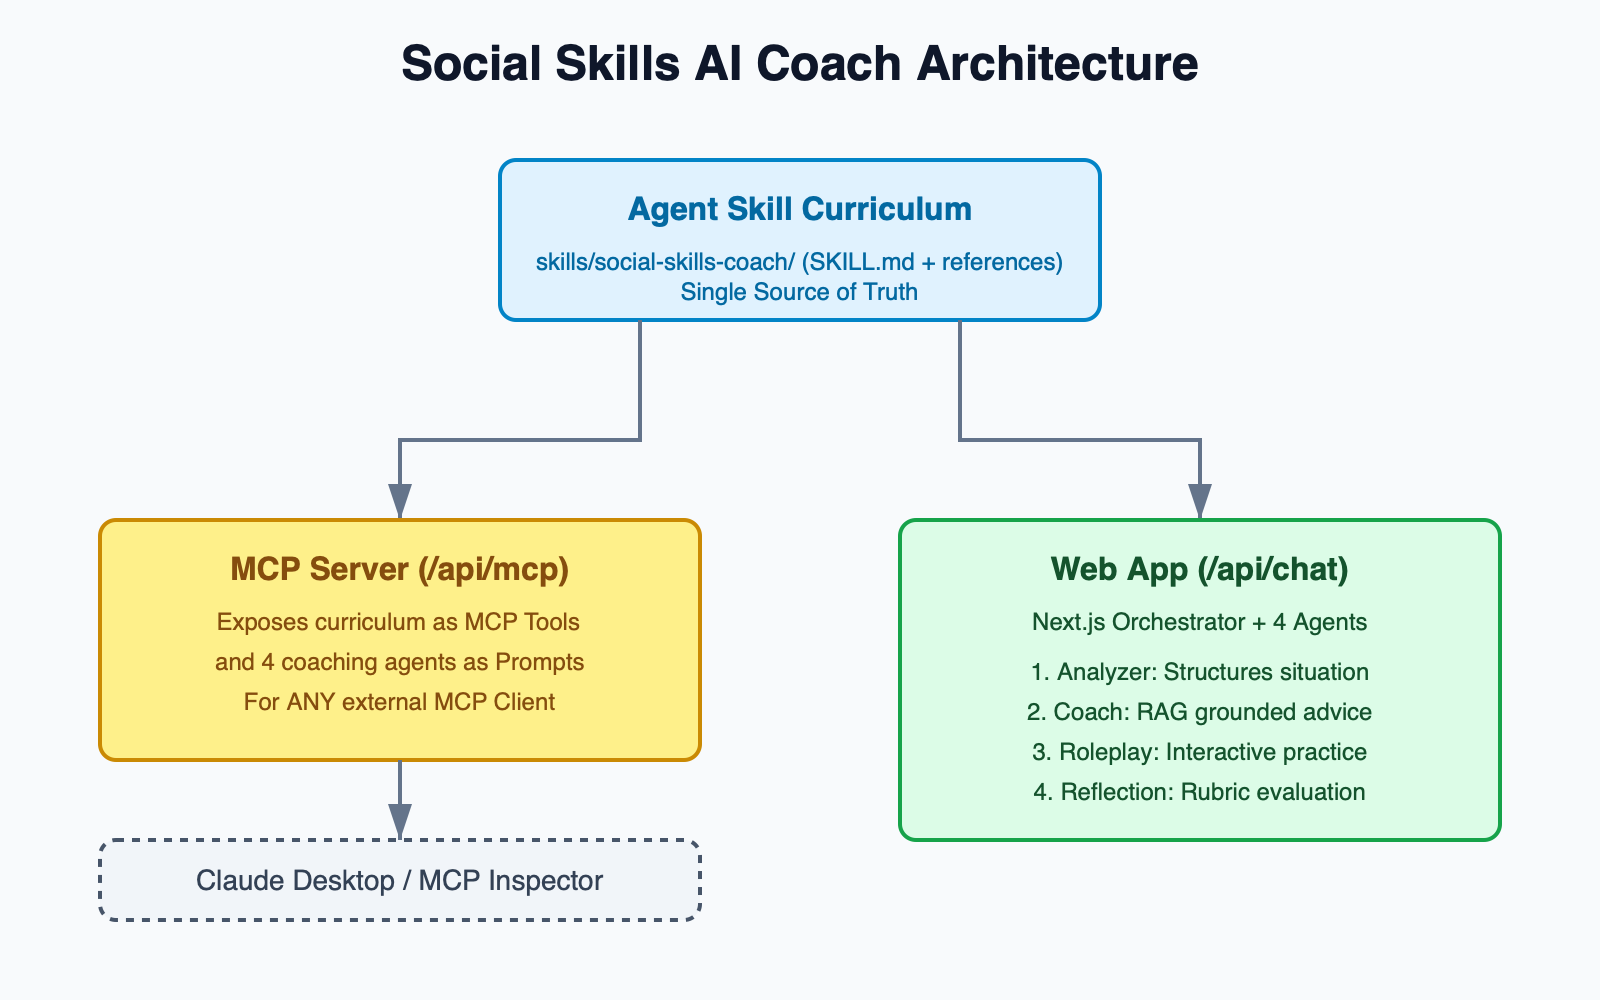
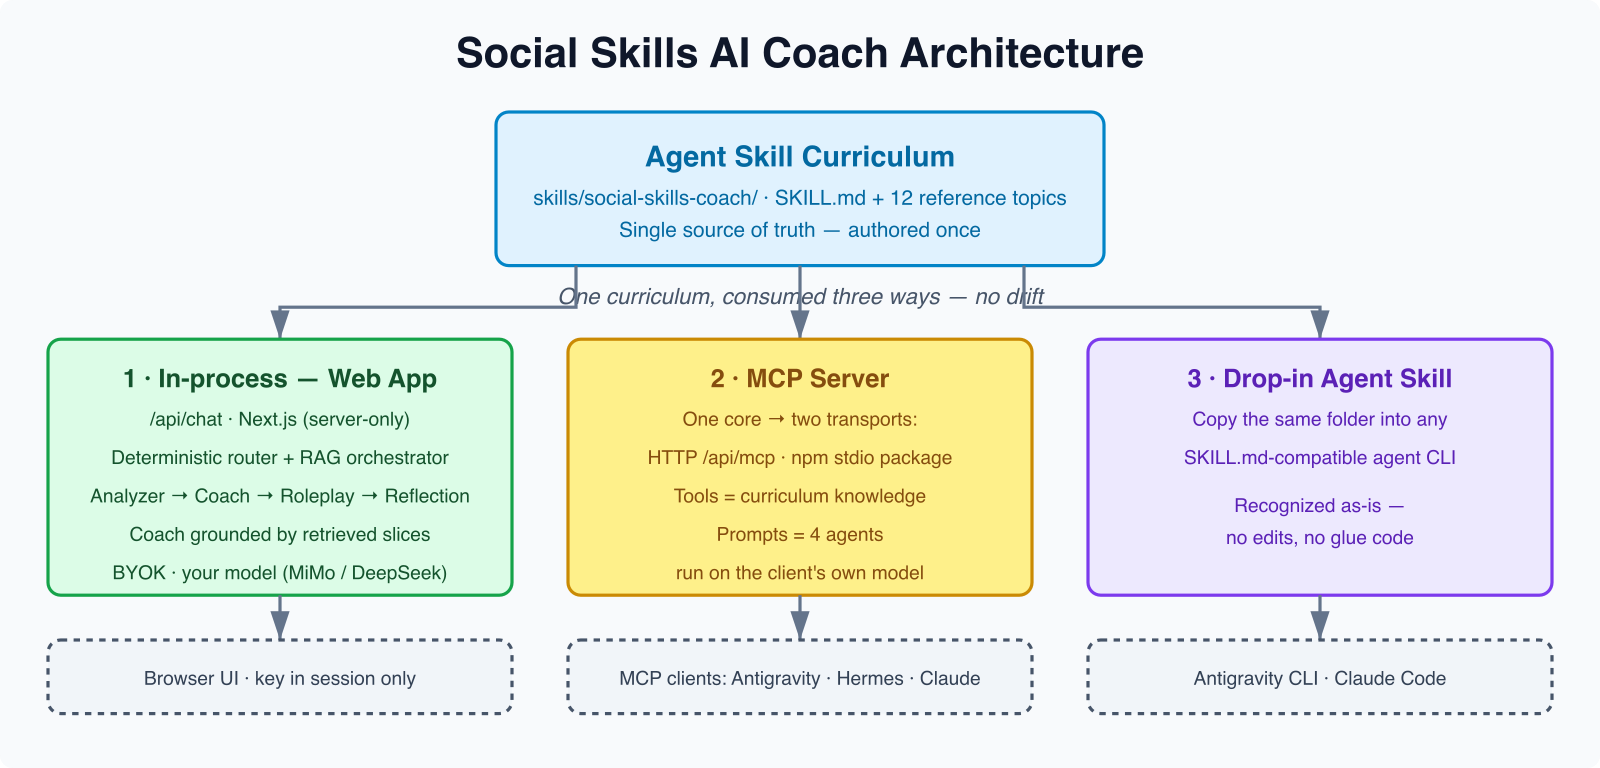
docs: fix incorrect format

diff --git a/README-cht.md b/README-cht.md
@@ -211,7 +211,7 @@ cp -r skills/social-skills-coach ~/.claude/skills/  # 與 Claude 共用
 ```json
 {
   "mcpServers": {
-    "social-skills-coach": { "command": "npx"， "args": ["-y"， "social-skills-coach-mcp"] }
+    "social-skills-coach": { "command": "npx", "args": ["-y", "social-skills-coach-mcp"] }
   }
 }
 ```
@@ -229,8 +229,8 @@ npx @modelcontextprotocol/inspector npx -y social-skills-coach-mcp
 ```bash
 curl -s -X POST http://localhost:3000/api/mcp \
   -H "Content-Type: application/json" \
-  -H "Accept: application/json， text/event-stream" \
-  -d '{"jsonrpc":"2.0"，"id":1，"method":"tools/call"，"params":{"name":"get_social_knowledge"，"arguments":{"topics":["opening"]}}}'
+  -H "Accept: application/json, text/event-stream" \
+  -d '{"jsonrpc":"2.0","id":1,"method":"tools/call","params":{"name":"get_social_knowledge","arguments":{"topics":["opening"]}}}'
 ```
 
 兩種形式共用同一個 core（`registerSocialSkillsMcp`）與同一份課程來源（Agent Skill），不會漂移。

diff --git a/README.md b/README.md
@@ -371,7 +371,7 @@ Next.js (App Router) · React · TypeScript (strict) · TailwindCSS · Vercel AI
 
 ## 📋 Roadmap
 
-- Support more modles and providers: Anthropic, OpenAI, Google Gemini...etc
+- Support more models and providers: Anthropic, OpenAI, Google Gemini...etc
 
 ---
 